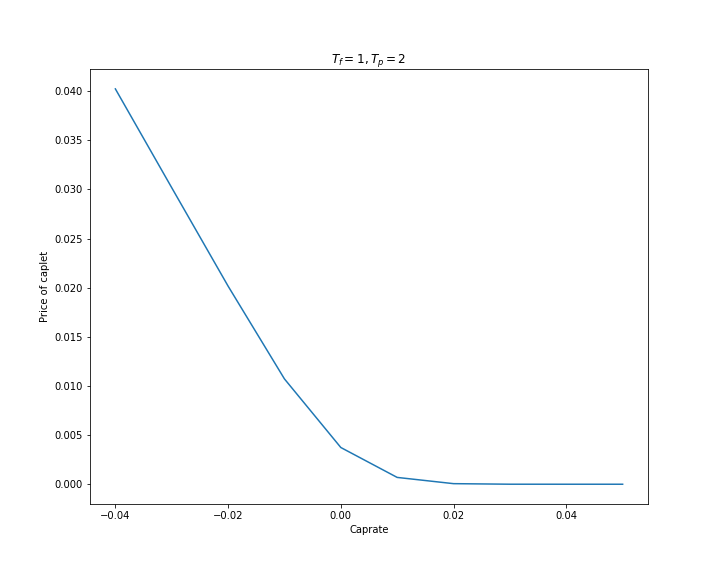
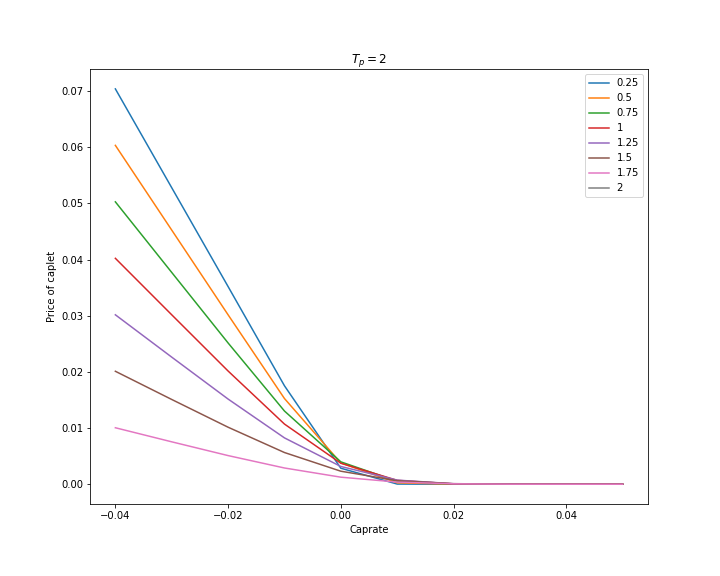
final?

diff --git a/test.py b/test.py
@@ -2,16 +2,17 @@ import pandas as pd
 import numpy as np
 import matplotlib.pyplot as plt
 import matplotlib.pyplot as plt
-from scipy.interpolate import splrep, splev
+from scipy.optimize import curve_fit
+from scipy.signal import savgol_filter
+from   scipy.interpolate import splrep, splev
 import scipy
 from matplotlib import gridspec
-
 class HullWhite():
-    def __init__(self, times, yield_curve, alpha, sigma, r0 = None):
+    def __init__(self, times, yield_curve, a, sigma, r0 = None):
 
         self.dt = 0.00001
         self.times = times
-        self.alpha = alpha
+        self.a = a
         self.sigma = sigma
         if not r0:
             self.r0 = yield_curve.iloc[0]
@@ -48,7 +49,7 @@ class HullWhite():
         dfdt = self.forward_rate(max(t + self.dt, 0)) - self.forward_rate(max(t-self.dt, 0))
         dfdt /= (2*self.dt)
 
-        return dfdt + self.alpha * self.forward_rate(t) + (self.sigma**2)/(self.alpha*2)*(1-np.exp(-2*self.alpha*t))
+        return dfdt + self.a * self.forward_rate(t) + (self.sigma**2)/(self.a*2)*(1-np.exp(-2*self.a*t))
 
     def spline_theta(self):
         '''
@@ -83,14 +84,20 @@ class HullWhite():
         '''
         B(t,T)
         '''
-        return (1/self.alpha) * (1-np.exp(-self.alpha*(T-t)))
+        return (1/self.a) * (1-np.exp(-self.a*(T-t)))
     
     def simple_zcb(self, T):
+        '''
+        Uses the ATS term structure with R0 to calculate the price of a ZCB
+        '''
         B = self.B(0, T)
         A = self.A(0, T)
         return np.exp(A-self.r0*B)
 
     def simulate_paths(self, number_of_steps, number_of_simulations, T):
+        '''
+        Simulates paths for the short-rate using the Euler discretization method
+        '''
         dt = T/float(number_of_steps)
 
         xh = np.zeros((number_of_steps+ 1, number_of_simulations))
@@ -100,7 +107,7 @@ class HullWhite():
         xh[0] = self.r0
 
         for i in range(1, number_of_steps + 1):
-            xh[i] = xh[i-1] + (self.theta(self.rates_times[i-1]) - self.alpha * xh[i-1]) * dt \
+            xh[i] = xh[i-1] + (self.theta(self.rates_times[i-1]) - self.a * xh[i-1]) * dt \
                              + self.sigma * np.sqrt(dt) * np.random.standard_normal(number_of_simulations)
         self.rates = xh
 
@@ -120,4 +127,154 @@ class HullWhite():
 
         return mean_p_t_T, std_p_t_T
 
+    def price_zbp(self, Tf , Tp, K):
+        '''
+        Prices a zero coupon put, fixing time Tf, paying time Tp and strike K.
+        '''
+        sigma = self.sigma 
+        a = self.a
+        var = sigma**2 / (2*a**3) * (1- np.exp(-2*a * Tf)) * (1 - np.exp(-a * (Tp - Tf)) )**2
 
+        p0Tf, _  = self.price_zcb_using_rates(0, Tf)
+        p0Tp, _  = self.price_zcb_using_rates(0, Tp)
+
+
+        dplus =  (np.log(K*p0Tf/p0Tp) + 1/2*var) / np.sqrt(var)
+        dminus = (np.log(K*p0Tf/p0Tp) - 1/2*var) / np.sqrt(var)
+
+        return K * p0Tp * scipy.stats.norm.cdf(dplus) - p0Tp * scipy.stats.norm.cdf(dminus)
+
+    
+    def price_caplet(self, Tf, Tp, K):
+        '''
+        Prices a caplet with fixing time Tf, paying time Tp and cap-rate K.
+        '''
+        delta = (Tp - Tf) 
+
+        return (1+K*delta) * self.price_zbp(Tf, Tp, 1/(1+ K * delta))  
+
+
+if __name__ == '__main__':
+    
+    
+    data = pd.read_excel("curve.xlsx") #read input yield-curve 
+    data['Curve'] /= 100               #convert to decimal form 
+    data.dropna(inplace = True)        
+
+    hw = HullWhite(data['T'], data['Curve'], a = 0.05, sigma = 0.01)
+
+
+    #=============================================
+    # Code to plot yield curve & forward curve
+    #=============================================
+
+    x = np.linspace(0, 15, 1000)
+
+    fig, axs = plt.subplots(1,1, figsize = (10, 7))
+    axs.plot(data['T'], data['Curve'], '-*')
+    axs.plot(x, [hw.y(t) for t in x])
+    axs.plot(x, [hw.forward_rate(t) for t in x])
+    axs.legend(['Yield Curve from QuantLib', 'Fitted spline Yield curve', 'Forward rate curve'])
+    axs.set_xlim(0,15)
+    fig.savefig("forward_curve.png")
+
+    #============================================
+    # Code to plot the fitted theta
+    #============================================
+    fig, axs = plt.subplots(1,1, figsize = (10 ,7))
+    axs.plot(x, [hw.eval_theta(t) for t in x])
+    axs.legend(["Theta(t)"])
+    fig.savefig("theta.png")
+
+    #===============================================================================================
+    # Code to plot p(0,T) using the fitted thetas vs calculating it with the yield curve
+    #===============================================================================================
+    fig, axs = plt.subplots(2,1, figsize = (10, 7))
+    x = hw.times
+    axs[0].plot(x, [hw.simple_zcb(t) for t in x], linewidth = 4)
+    axs[0].plot(data['T'], np.exp(-data['T'] * data['Curve']), '--', linewidth = 3)
+    axs[1].plot(data['T'],  np.exp(-data['T'] * data['Curve']) - np.array([hw.simple_zcb(t) for t in data['T']]) )
+    axs[0].legend(["Calculated using theta", "Calculated using yield curve"])
+    axs[1].legend(["Difference"])
+    fig.savefig("diff.png")
+
+    #============================================================
+    # code to simulate & plot paths of the short-rate
+    #============================================================
+    hw.simulate_paths(number_of_steps = 15*365, number_of_simulations = 25000, T = 15)
+
+    mean_simulated_rate = np.mean(hw.rates, axis = 1)
+    std_simulated_rate = np.std(hw.rates, axis = 1)
+
+    fig, ax = plt.subplots(1,1)
+
+    for i in range(min(hw.rates.shape[1], 50 )):
+        ax.plot(hw.rates_times, hw.rates[:,i], alpha = 0.1)
+
+    ax.plot(hw.rates_times, mean_simulated_rate, linewidth = 3, label = 'mean of 25,000 simulated paths')
+    ax.plot(hw.rates_times, mean_simulated_rate - std_simulated_rate,  '--', c = 'orange', linewidth = 3, label = "+- one std")
+    ax.plot(hw.rates_times, mean_simulated_rate + std_simulated_rate,  '--', c = 'orange', linewidth = 3)
+
+    ax.set_ylim(-0.045, 0.07)
+    ax.set_xlim(0, 15)
+    ax.legend()
+
+    ax.set_title("Simulation of intereset rates, 50 simulations shown and the mean & +- one std")
+    ax.set_ylabel("r(t)")
+    ax.set_xlabel("t")
+
+    plt.savefig("simulated_interest_rates.png")
+
+
+    #=====================================================
+    # Code to plot p(0,T) calculated using simulated rates
+    #=====================================================
+    x = np.linspace(0, 15, 100)
+    ps = []
+    stds = []
+
+    for T in x:
+        p, std = hw.price_zcb_using_rates(0, T)
+        ps.append(p)
+        stds.append(std)
+
+    ps = np.array(ps)
+    stds = np.array(stds)
+
+
+
+    fig = plt.figure(figsize=(10, 8)) 
+    gs = gridspec.GridSpec(2, 1, height_ratios=  [2, 1]) 
+    ax0 = plt.subplot(gs[0])
+    ax0.plot(x, ps, linewidth = 4, label=r'$p(0,T) = E[e^{-\int_0^T{rds}}]$')
+    ax0.plot(x, [hw.simple_zcb(t) for t in x],'--' , linewidth = 3, label=r'$p(0,T) = e^{A(0,T) - B(0,T)r(0)}$')
+    ax0.legend()
+    ax1 = plt.subplot(gs[1])
+    ax1.plot(x, ps - np.array([hw.simple_zcb(t) for t in x]), label = 'Difference')
+    ax1.legend()
+    plt.tight_layout()
+    fig.savefig("using_rates.png")
+
+
+    #===========================================================================
+    # Code to plot the price of a caplet with varying caprate
+    ##==========================================================================
+
+    fig, ax = plt.subplots(1,1, figsize = (10,8))
+
+    R = np.linspace(-.04, 0.05, 10)
+
+    Tf = 1
+    Tp = 2
+
+    Tfs = [0.25, 0.5, 0.75, 1, 1.25, 1.5, 1.75, 2]
+    prices = [([hw.price_caplet(Tf, Tp, r) for r in R], Tf) for Tf in Tfs]
+
+    for price, tf in prices:
+        ax.plot(R,price, label = tf)
+
+    ax.set_xlabel("Caprate")
+    ax.set_ylabel("Price of caplet")
+    ax.set_title(r"$T_p = 2$")
+    ax.legend()
+    fig.savefig("Caplet_varying_K")
